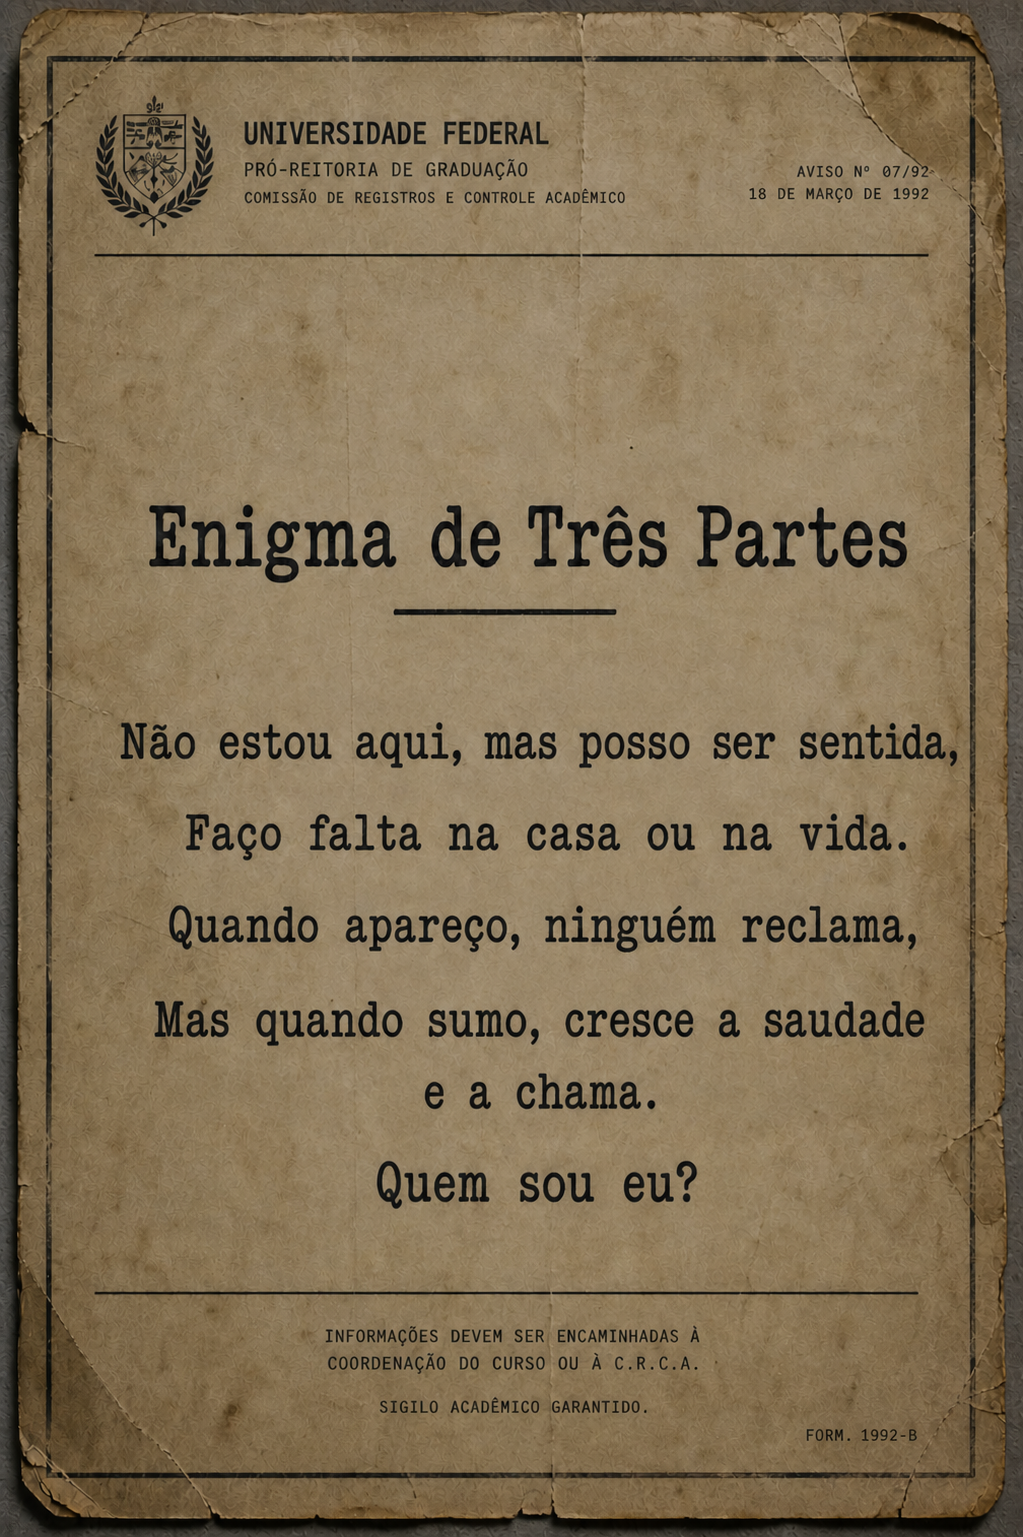
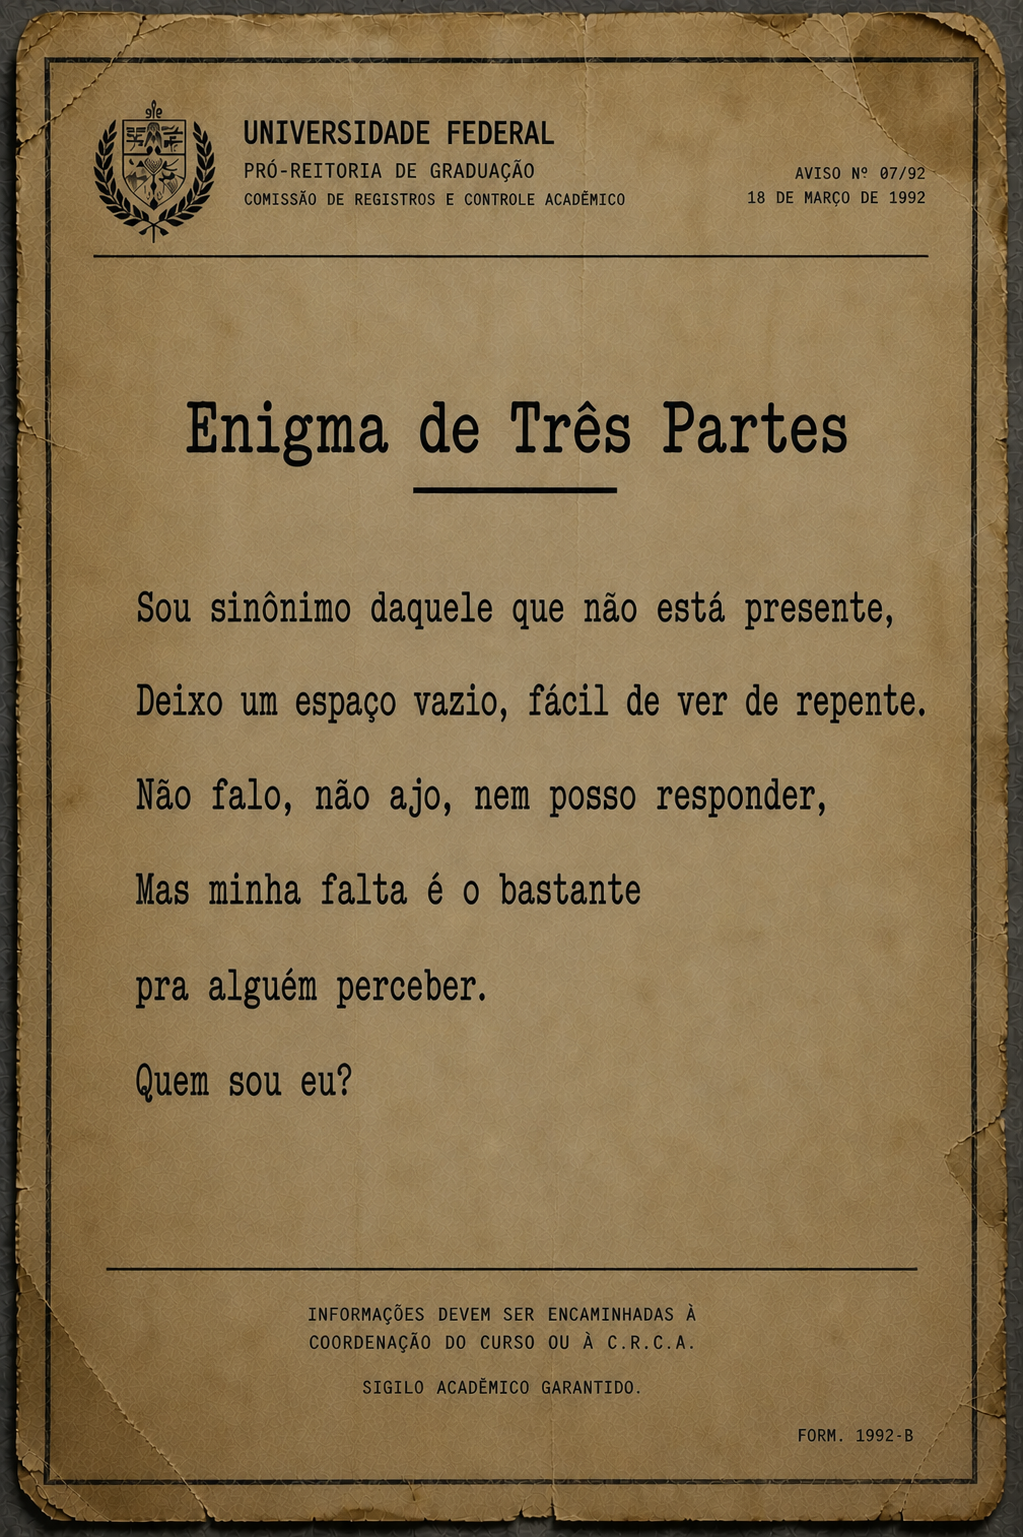
fix: major correction on look list

diff --git a/internal/engine/processor.go b/internal/engine/processor.go
@@ -214,45 +214,47 @@ func (p *GameProcessor) checkConditionForPuzzle(resp models.CommandResponse, puz
 	}
 }
 
-func (p *GameProcessor) markObjectAsSeen(prog *models.Progression, caso *models.Case, obj string) {
+func (p *GameProcessor) markObjectAsSeen(prog *models.Progression, obj string, response string) {
 	obj = strings.ToLower(obj)
 
 	newUnseen := make([]string, 0, len(prog.UnseenObjects))
-	found := false
 	for _, o := range prog.UnseenObjects {
-		if o == obj {
-			found = true
+		if strings.EqualFold(o, obj) {
 			continue
 		}
 		newUnseen = append(newUnseen, o)
 	}
-	if !found {
-		return
-	}
 	prog.UnseenObjects = newUnseen
 
+	alreadySeen := false
 	for _, o := range prog.SeenObjects {
-		if o == obj {
-			return
+		if strings.EqualFold(o, obj) {
+			alreadySeen = true
+			break
 		}
 	}
-	prog.SeenObjects = append(prog.SeenObjects, obj)
+	if !alreadySeen {
+		prog.SeenObjects = append(prog.SeenObjects, obj)
+	}
 
 	if prog.SeenObjectsHash == nil {
 		prog.SeenObjectsHash = make(map[string]string)
 	}
-	currentResp := p.getObjectResponse(caso, obj, prog.CurrentPuzzle, prog.CurrentFocus)
-	if currentResp != "" {
-		prog.SeenObjectsHash[obj] = hash(currentResp)
+
+	currentHash := hash(response)
+
+	if response != "" {
+		prog.SeenObjectsHash[obj] = currentHash
 	}
 
 	key := p.sessionKey(prog) + ":" + obj
+
 	p.cacheMu.Lock()
-	defer p.cacheMu.Unlock()
 	p.objectCache[key] = &objectResponse{
-		ResponseHash: hash(currentResp),
+		ResponseHash: currentHash,
 		Puzzle:       prog.CurrentPuzzle,
 	}
+	p.cacheMu.Unlock()
 }
 
 func (p *GameProcessor) LoadProgressionCache(prog *models.Progression, caso *models.Case) {
@@ -430,6 +432,7 @@ func (p *GameProcessor) handleGameCommand(caso *models.Case, progression *models
 	}
 
 	if parts[0] == "OLHAR" && len(parts) == 1 {
+		p.RefreshObjectLists(progression, caso, progression.CurrentPuzzle)
 		return p.handleLookList(caso, progression)
 	}
 
@@ -513,20 +516,23 @@ func (p *GameProcessor) handleGameCommand(caso *models.Case, progression *models
 		}
 
 		progression.CurrentFocus = newFocus
-		state := p.getCurrentState(caso, progression)
 
 		if strings.HasPrefix(strings.ToUpper(command), "OLHAR ") && len(parts) > 1 {
 			obj := strings.ToLower(parts[1])
-			p.markObjectAsSeen(progression, caso, obj)
+			p.markObjectAsSeen(progression, obj, bestMatch.Response)
 		}
 
 		p.RefreshObjectLists(progression, caso, progression.CurrentPuzzle)
 
+		state := p.getCurrentState(caso, progression)
+
 		if bestMatch.UnlocksNext {
 			progression.CurrentPuzzle = bestMatch.NextPuzzle
 			progression.CurrentFocus = "none"
-			state = p.getCurrentState(caso, progression)
+
 			p.RefreshObjectLists(progression, caso, progression.CurrentPuzzle)
+
+			state = p.getCurrentState(caso, progression)
 		}
 
 		if strings.EqualFold(parts[0], "AJUDA") && len(parts) == 1 {
